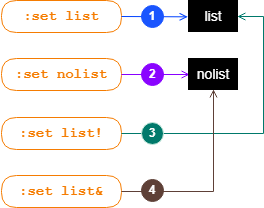
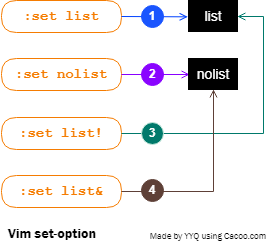
bl

Changed region(s): [[0.0, 0.0, 1.0, 1.0]]

diff --git a/_ToDo/learn-vi-00-SetOptions.html b/_ToDo/learn-vi-00-SetOptions.html
@@ -25,19 +25,6 @@
 	<p><a href="https://yyq123.github.io/learn-vim/images/.png" title=""><img src="https://yyq123.github.io/learn-vim/images/.png" alt="" width="500" height="" /></a></p>
 
 	<p style="font-weight:bold; border-bottom:1px solid lightgray; border-left:6px solid lightgray; padding:0 0 3px 5px">设置选项</p>
-例如:
-:set list
-:set list?
-list
-:set nolist
-:set list?
-nolist
-:set list!
-:set list?
-list
-:set list&
-:set list?
-nolist
 	<p>使用以下命令，可以设置布尔选项：</p>
 	<table summary="Commands" border="1" frame="border" rules="all" cellspacing="0" cellpadding="3">
 		<tr><th>命令形式</th><th>描述</th><th>示例</th></tr>
@@ -47,6 +34,8 @@ nolist
 		<tr><td><code class="inset">:set invoption</code></td><td>反转选项</td><td><code class="inset">:set invlist</code></td></tr>
 		<tr><td><code class="inset">:set option&amp;</code></td><td>将选项设为默认值</td><td><code class="inset">:set list&amp;</code></td></tr>
 	</table>
+	<p>如果顺序执行这些命令，那么选项变化如下图所示：</p>
+	<p><a href="https://yyq123.github.io/learn-vim/images/setoption_bl.png" title=""><img src="https://yyq123.github.io/learn-vim/images/setoption_bl.png" alt="setoption_bl" /></a></p>
 
 例如:
 :set shiftwidth=4
